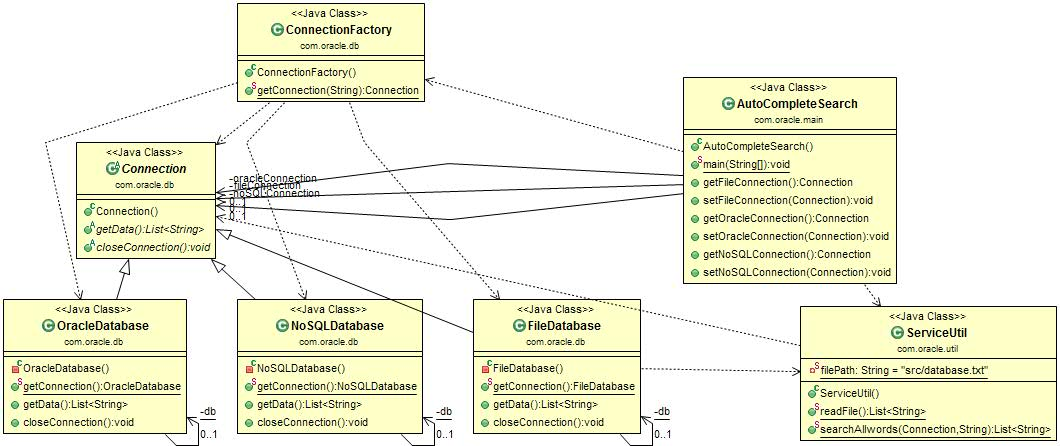
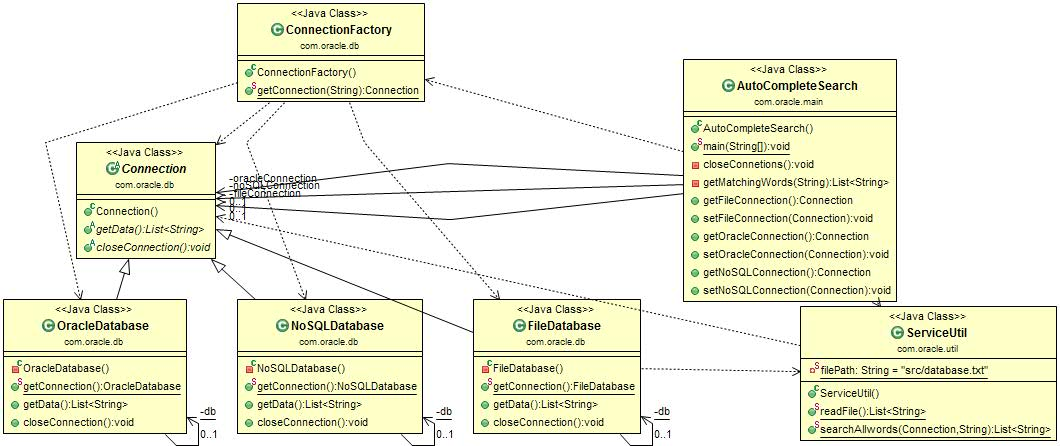
client connecting with different repositories.

Changed region(s): [[0.6226, 0.1166, 0.8717, 0.6996], [0.2179, 0.3789, 0.3113, 0.4664]]

diff --git a/OracleAutoComplete/src/com/oracle/main/AutoCompleteSearch.java b/OracleAutoComplete/src/com/oracle/main/AutoCompleteSearch.java
@@ -68,11 +68,7 @@ public class AutoCompleteSearch {
 					case 1 :  {
 						System.out.println("Please enter the key : ");
 						String enteredKey = scn.nextLine();
-						List<String> matchingWords = ServiceUtil.searchAllwords(autoSearch.getFileConnection(), enteredKey);
-						List<String> oracleWords = ServiceUtil.searchAllwords(autoSearch.getOracleConnection(), enteredKey);
-						List<String> noSQLWords = ServiceUtil.searchAllwords(autoSearch.getOracleConnection(), enteredKey);
-						matchingWords.addAll(oracleWords);
-						matchingWords.addAll(noSQLWords);
+						List<String> matchingWords = autoSearch.getMatchingWords(enteredKey);
 						if (null != matchingWords && matchingWords.size()!=0) {
 							//Displaying the words in sorted order, alphabetically.
 							Collections.sort(matchingWords);
@@ -91,10 +87,33 @@ public class AutoCompleteSearch {
 			}
 		}
 		scn.close();
-		autoSearch.getFileConnection().closeConnection();
-		autoSearch.getOracleConnection().closeConnection();
-		autoSearch.getNoSQLConnection().closeConnection();
+		autoSearch.closeConnetions();
 		System.out.println("Application is closed !!");
+	}
+	
+	
+	/***
+	 * methods which willclose all the connections.
+	 */
+	private void closeConnetions() {
+
+		getFileConnection().closeConnection();
+		getOracleConnection().closeConnection();
+		getNoSQLConnection().closeConnection();
+	}
+	/***
+	 *  methods which will search the matching words in 
+	 *  the different databases.
+	 * @param enteredKey
+	 * @return
+	 */
+	private List<String> getMatchingWords(String enteredKey) {
+		List<String> fileWords = ServiceUtil.searchAllwords(getFileConnection(), enteredKey);
+		List<String> oracleWords = ServiceUtil.searchAllwords(getOracleConnection(), enteredKey);
+		List<String> noSQLWords = ServiceUtil.searchAllwords(getOracleConnection(), enteredKey);
+		fileWords.addAll(oracleWords);
+		fileWords.addAll(noSQLWords);
+		return fileWords;
 	}
 	/**
 	 * @return the fileConnection
